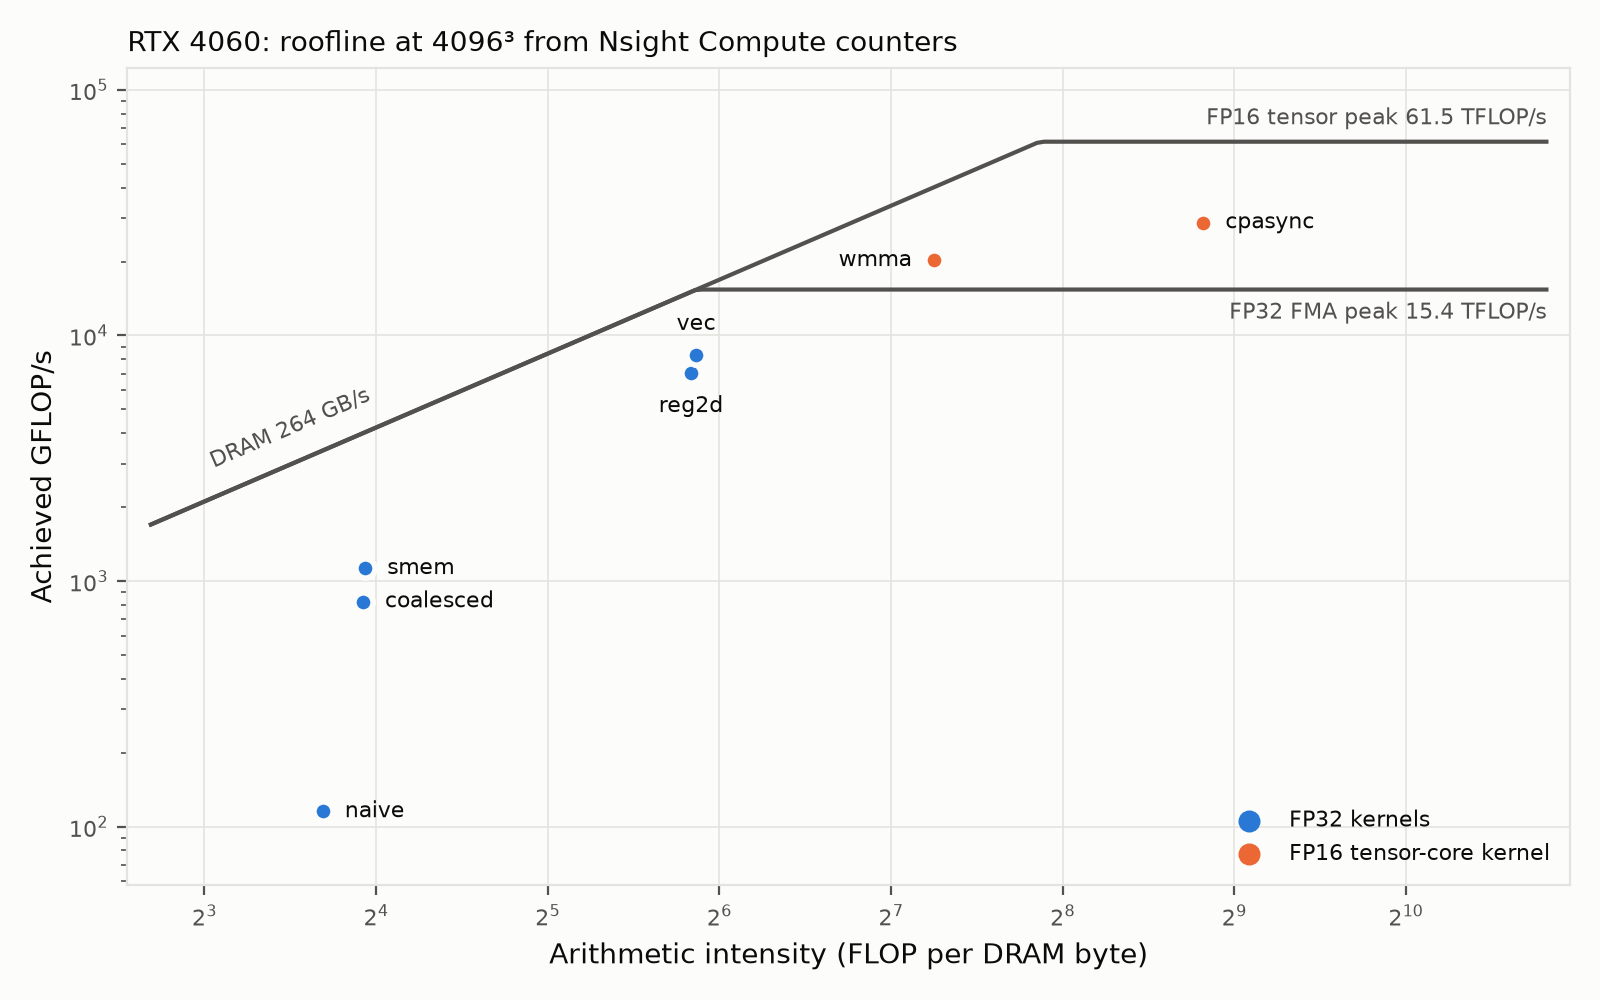
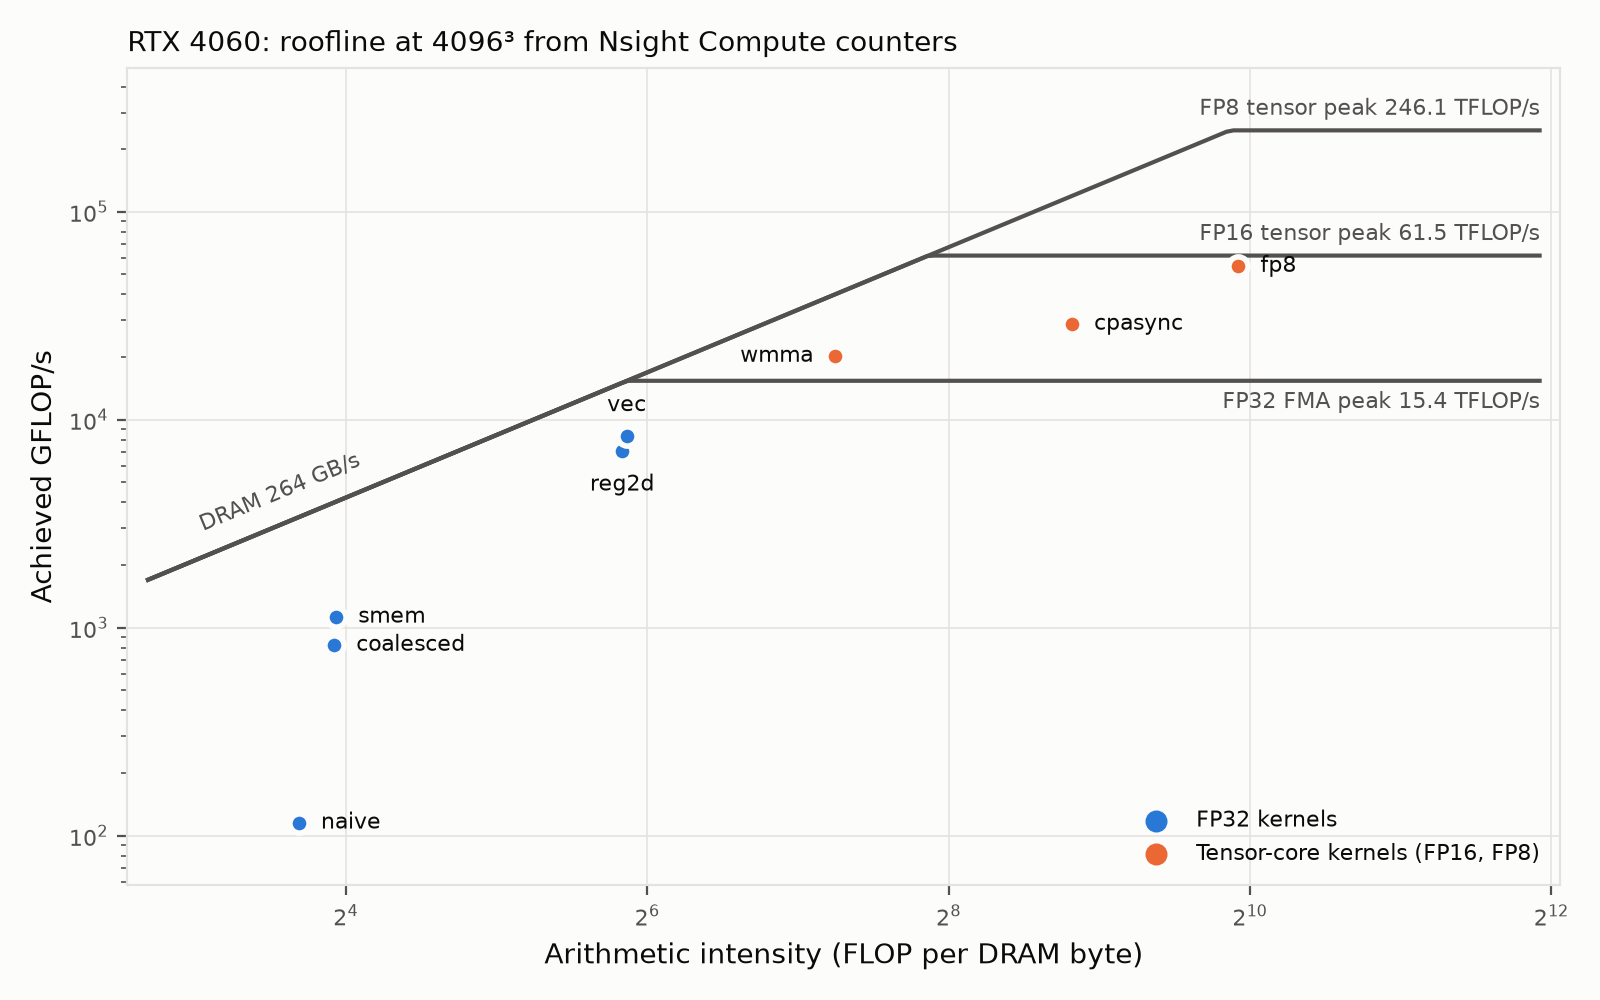
Record FP8 step: results, profile, notes and journal

diff --git a/scripts/roofline.py b/scripts/roofline.py
@@ -21,17 +21,23 @@ from plotstyle import THEMES
 
 FP32 = "sm__sass_thread_inst_executed_op_ffma_pred_on.sum"
 TENSOR = "sm__ops_path_tensor_src_fp16_dst_fp32.sum"
+FP8 = "sm__ops_path_tensor_src_fp8.sum"  # profiles before step 8 lack it: 0
 
 
 def load(path):
-    """Kernel rows of the ncu raw CSV pages, numbers parsed."""
+    """Kernel rows of the ncu raw CSV pages, numbers parsed. Each page has its
+    own header, since the metric list grew over the steps."""
     with open(path) as f:
         lines = [l for l in f if l.startswith('"')]  # drop bench's own stdout
-    rows = []
-    for r in csv.DictReader(lines):
-        if r["ID"] in ("ID", ""):  # repeated header or units row
+    rows, header = [], None
+    for values in csv.reader(lines):
+        if values[0] == "ID":
+            header = values
             continue
-        rec = {"name": r["Kernel Name"].split("_kernel")[0]}
+        r = dict(zip(header, values))
+        if r["ID"] == "":  # units row
+            continue
+        rec = {"name": r["Kernel Name"].split("_kernel")[0], FP8: 0.0}
         for k, v in r.items():
             try:
                 rec[k] = float(v.replace(",", ""))
@@ -56,15 +62,17 @@ def main(src, dst, gpu, theme="light"):
     sm_hz = r0["sm__cycles_elapsed.avg.per_second"]
     peak_fp32 = 2 * r0[FP32 + ".peak_sustained"] * sm_hz
     peak_tensor = r0[TENSOR + ".peak_sustained"] * sm_hz
+    peak_fp8 = max(r.get(FP8 + ".peak_sustained", 0) for r in rows) * sm_hz
     peak_bw = (
         r0["dram__bytes.sum.peak_sustained"] * r0["dram__cycles_elapsed.avg.per_second"]
     )
     print(
         f"peak_fp32_gflops,{peak_fp32 / 1e9:.0f}\npeak_tensor_gflops,{peak_tensor / 1e9:.0f}"
+        f"\npeak_fp8_gflops,{peak_fp8 / 1e9:.0f}"
         f"\npeak_dram_gbs,{peak_bw / 1e9:.0f}\nkernel,flop_per_byte,gflops"
     )
     for r in rows:
-        r["flops"] = 2 * r[FP32] + r[TENSOR]
+        r["flops"] = 2 * r[FP32] + r[TENSOR] + r[FP8]
         r["bytes"] = r["dram__bytes_read.sum"] + r["dram__bytes_write.sum"]
         r["ai"] = r["flops"] / r["bytes"]
         r["perf"] = r["flops"] / (r["gpu__time_duration.sum"] * 1e-9)
@@ -79,14 +87,18 @@ def main(src, dst, gpu, theme="light"):
     lo = min(r["ai"] for r in rows) / 2
     hi = max(r["ai"] for r in rows) * 4
     ax.set_xlim(lo / 1.1, hi * 1.1)
-    ax.set_ylim(min(r["perf"] for r in rows) / 1e9 / 2, peak_tensor / 1e9 * 2)
+    top = max(peak_tensor, peak_fp8)
+    ax.set_ylim(min(r["perf"] for r in rows) / 1e9 / 2, top / 1e9 * 2)
     xs = [lo * (hi / lo) ** (i / 200) for i in range(201)]
     # Tensor ceiling label above its line, FP32 label below its own, both at
     # the right edge where no kernel sits.
     for peak, label, va, nudge in [
         (peak_fp32, "FP32 FMA peak", "top", 1 / 1.12),
         (peak_tensor, "FP16 tensor peak", "bottom", 1.12),
+        (peak_fp8, "FP8 tensor peak", "bottom", 1.12),
     ]:
+        if peak == 0:
+            continue
         ax.plot(
             xs, [min(peak, peak_bw * x) / 1e9 for x in xs], color=c["muted"], lw=1.5
         )
@@ -104,7 +116,7 @@ def main(src, dst, gpu, theme="light"):
             r["ai"],
             r["perf"] / 1e9,
             s=48,
-            color=c["tc"] if r[TENSOR] > 0 else c["fp32"],
+            color=c["tc"] if r[TENSOR] + r[FP8] > 0 else c["fp32"],
             edgecolor=c["surface"],
             linewidth=2,
             zorder=3,
@@ -121,7 +133,7 @@ def main(src, dst, gpu, theme="light"):
             color=c["ink"],
         )
     ax.scatter([], [], s=48, color=c["fp32"], label="FP32 kernels")
-    ax.scatter([], [], s=48, color=c["tc"], label="FP16 tensor-core kernel")
+    ax.scatter([], [], s=48, color=c["tc"], label="Tensor-core kernels (FP16, FP8)")
     leg = ax.legend(frameon=False, fontsize=8, loc="lower right")
     for t in leg.get_texts():
         t.set_color(c["ink"])

diff --git a/scripts/journal_fp8.py b/scripts/journal_fp8.py
@@ -1,0 +1,88 @@
+# /// script
+# requires-python = ">=3.11"
+# dependencies = ["matplotlib"]
+# ///
+"""Key figure of the FP8 journal entry: where the FP8 kernel adds its tensor-core
+partial sums into FP32 ("promotion"), against error and throughput.
+
+Usage: uv run scripts/journal_fp8.py <out.png> [light|dark]
+Reads docs/results/fp8-promotion.csv.
+"""
+
+import csv
+import statistics
+import sys
+
+import matplotlib
+
+matplotlib.use("Agg")
+import matplotlib.pyplot as plt
+from plotstyle import THEMES
+
+VARIANTS = [  # (csv key, label)
+    ("none", "never (one long\ntensor-core chain)"),
+    ("64", "every 64-deep K tile\n(committed)"),
+    ("32", "after every MMA"),
+]
+
+
+def main(dst, theme="light"):
+    with open("docs/results/fp8-promotion.csv") as f:
+        rows = list(csv.DictReader(ln for ln in f if not ln.startswith("#")))
+    sizes = sorted({int(r["n"]) for r in rows})
+
+    def med(key, n, col):
+        return statistics.median(
+            float(r[col]) for r in rows if r["promotion"] == key and int(r["n"]) == n
+        )
+
+    c = THEMES[theme]
+    shades = [c["muted"], c["tc"], c["fp32"]]
+    fig, axes = plt.subplots(1, 2, figsize=(8, 3.4), dpi=200)
+    fig.patch.set_facecolor(c["surface"])
+    ax = axes[0]
+    for (key, label), color in zip(VARIANTS, shades):
+        ax.plot(sizes, [med(key, n, "exact_err") for n in sizes], "o-", color=color,
+                label=label.replace("\n", " "), lw=1.8, ms=4)
+    ax.plot(sizes, [med("64", n, "cublaslt_exact_err") for n in sizes], "s--",
+            color=c["ink"], label="cuBLASLt FP8", lw=1.2, ms=3.5)
+    ax.set_xscale("log", base=2)
+    ax.set_yscale("log")
+    ax.set_xticks(sizes, [str(n) for n in sizes])
+    ax.set_xlabel("n = K", color=c["ink"], fontsize=8)
+    ax.set_title("Max error vs exact FP64 dot products", fontsize=9, color=c["ink"],
+                 loc="left")
+    leg = ax.legend(frameon=False, fontsize=7)
+    for t in leg.get_texts():
+        t.set_color(c["ink"])
+
+    ax = axes[1]
+    labels = [label for _, label in VARIANTS] + ["cuBLASLt FP8"]
+    vals = [med(key, 4096, "gflops") / 1e3 for key, _ in VARIANTS]
+    vals.append(med("64", 4096, "cublaslt_gflops") / 1e3)  # same runs as "64"
+    bars = ax.barh(labels[::-1], vals[::-1], color=(shades + [c["ink"]])[::-1],
+                   height=0.6)
+    for b, v in zip(bars, vals[::-1]):
+        ax.text(b.get_width(), b.get_y() + b.get_height() / 2, f" {v:.1f}",
+                va="center", fontsize=8, color=c["ink"])
+    ax.set_xlim(0, max(vals) * 1.25)
+    ax.set_xticks([])
+    ax.set_title("TFLOP/s at 4096³ (median of three)", fontsize=9, color=c["ink"],
+                 loc="left")
+    for a in axes:
+        a.set_facecolor(c["surface"])
+        a.tick_params(colors=c["muted"], labelsize=7.5)
+        for s in a.spines.values():
+            s.set_color(c["grid"])
+    for s in axes[1].spines.values():
+        s.set_visible(False)
+    fig.suptitle(
+        "RTX 4060, FP8 (E4M3) GEMM: where partial sums leave the tensor core",
+        fontsize=10, color=c["ink"], x=0.01, ha="left",
+    )
+    fig.tight_layout()
+    fig.savefig(dst, facecolor=c["surface"])
+
+
+if __name__ == "__main__":
+    main(*sys.argv[1:])

diff --git a/scripts/counters.py b/scripts/counters.py
@@ -18,7 +18,7 @@ import matplotlib
 matplotlib.use("Agg")
 import matplotlib.pyplot as plt
 from plotstyle import THEMES
-from roofline import TENSOR, load
+from roofline import FP8, TENSOR, load
 
 REQ = "l1tex__t_requests_pipe_lsu_mem_global_op_ld.sum"
 SECT = "l1tex__t_sectors_pipe_lsu_mem_global_op_ld.sum"
@@ -138,7 +138,7 @@ def main(src, dst, theme="light", json_out=None):
     for ax, (_, title, unit, _, value) in zip(axes.flat, PANELS):
         vals = [value(r) for r in rows]
         ax.set_facecolor(c["surface"])
-        colors = [c["tc"] if r[TENSOR] > 0 else c["fp32"] for r in rows]
+        colors = [c["tc"] if r[TENSOR] + r[FP8] > 0 else c["fp32"] for r in rows]
         ax.barh(range(len(rows)), vals, height=0.62, color=colors)
         top = max(vals) or 1
         ax.set_xlim(0, top * 1.45)

diff --git a/README.md b/README.md
@@ -11,18 +11,19 @@ Matrix multiply in CUDA, built step by step from a naive kernel to tensor cores,
 | 5 | [`vec`](docs/steps/5-vec.md) | 128-bit loads, transposed A tile | 7,053 | 88.1 |
 | 6 | [`wmma`](docs/steps/6-wmma.md) | Tensor cores (FP16 in, FP32 accumulate) | 20,731 | 65.3 |
 | 7 | [`cpasync`](docs/steps/7-cpasync.md) | `cp.async` double buffering, grouped block order | 28,823 | 95.3 |
+| 8 | [`fp8`](docs/steps/8-fp8.md) | FP8 (E4M3) `mma.sync`, FP32 promotion per K tile | 57,778 | 93.3 |
 
-Measured on an RTX 4060 (sm_89, CUDA 13.3), median of three runs ([raw](docs/results/rtx4060.csv)). `wmma` and `cpasync` are compared with FP16-input cuBLAS.
+Measured on an RTX 4060 (sm_89, CUDA 13.3), median of three runs ([raw](docs/results/rtx4060.csv)). `wmma` and `cpasync` are compared with FP16-input cuBLAS, `fp8` with cuBLASLt FP8.
 
 ![Roofline of every kernel on the RTX 4060](docs/roofline.png)
 
 ## Why it matters
 
-GEMM dominates deep-learning training and inference. Each step removes one bottleneck (uncoalesced loads, global traffic, shared-memory bandwidth, instruction issue, FP32 math) and explains the gain from SASS and Nsight Compute counters:
+Each step removes one bottleneck and explains the gain from SASS and Nsight Compute counters:
 
 ![Nsight Compute counters per kernel](docs/img/counters.png)
 
-Tiles per step, to scale; the global loads they imply match the counters exactly for steps 1–5:
+Tiles per step, to scale; their implied global loads match the counters for steps 1–5:
 
 ![Block, warp and thread tiles per step](docs/img/tiling.png)
 
@@ -41,15 +42,17 @@ make bench ARCH=sm_89 KERNEL=vec  # on a GPU: time, GFLOPS, % cuBLAS, error as C
 | `src/gemm.cuh` | Launcher signatures shared by every kernel |
 | `src/<step>.cu` | One kernel per step |
 | `src/bench.cu` | Harness: timing, cuBLAS reference, error check |
+| `src/quant.cu`, `src/numerics.cu` | Quantizers; per-format error and cost (`bench numerics`) |
+| `check/` | Tensor-core adder probe; quantizer cross-check against chip-lab |
 | `scripts/` | Roofline, counter and tiling plots from the result CSVs |
 | `docs/steps/`, `docs/journal/` | One note per step; dated process notes |
 | `docs/results/` | Raw benchmark and Nsight Compute CSVs |
 
 ## Results and verification
 
-- Every run checks `max_rel_err` against cuBLAS and fails above 1e-4 (FP32) or 1e-3 (FP16 inputs).
-- Each step note in [docs/steps/](docs/steps/) gives what changed, why it is faster and what limits it next.
-- Benchmarking, profiling and plots: [docs/running.md](docs/running.md).
+- Every run checks `max_rel_err` and fails above 1e-4 (FP32) or 1e-3 (FP16, FP8; FP8 against exact dot products).
+- On chip-lab's test distributions, GPU FP8 and BF16 error match its bit-exact C++ models ([step 8](docs/steps/8-fp8.md)).
+- Running, profiling and plots: [docs/running.md](docs/running.md).
 
 ## Limitations
 
@@ -58,9 +61,8 @@ make bench ARCH=sm_89 KERNEL=vec  # on a GPU: time, GFLOPS, % cuBLAS, error as C
 
 ## Related projects
 
-- [openroad-chip-lab](https://github.com/NicholasUnruh/openroad-chip-lab): a BF16 matrix tile from RTL to SKY130 layout: GEMM in custom silicon.
+- [openroad-chip-lab](https://github.com/NicholasUnruh/openroad-chip-lab): GEMM tiles and number formats in custom silicon.
 - [bf16-fpga](https://github.com/NicholasUnruh/bf16-fpga): that tile running on an FPGA.
-- [rv32i-pipeline](https://github.com/NicholasUnruh/rv32i-pipeline), [cache-sim](https://github.com/NicholasUnruh/cache-sim): CPU pipeline and memory hierarchy.
 - Portfolio: https://genwealth.world
 
 ## License

diff --git a/docs/journal/2026-11-12-fp8.md b/docs/journal/2026-11-12-fp8.md
@@ -1,0 +1,59 @@
+# FP8 on Ada tensor cores, and how they add
+
+## Question
+
+Ada's tensor cores take E4M3 inputs. How close does a hand-written `mma.sync` kernel get to cuBLASLt FP8, and is its error the error of the format or of the hardware?
+
+![Error grows with K when partial sums stay in the tensor core; promoting every 64-deep K tile keeps it flat at full speed](img/fp8.png)
+
+What to notice: the never-promoted kernel's error grows about 6x from K = 256 to 4096, while promoting every 64-deep tile stays flat at no throughput cost.
+
+## Concept
+
+An FP8 MMA multiplies 8-bit inputs exactly and adds the products into an FP32 accumulator. "FP32 accumulator" says nothing about how the adder rounds. Like chip-lab's dot-product units, the tensor core aligns all addends to the largest one inside a fixed-width frame and drops what falls outside it.
+
+A probe of one `mma.sync.m16n8k32` with hand-built operands measures that frame:
+
+```
+c = 2^13, + 1*1   ->  8193      (kept)
+c = 2^14, + 1*1   ->  16384     (lost: about 13 bits below the leading bit)
+c = -2^12, + 0.75 ->  -4095.5   (truncated toward -inf, not rounded)
+c = 2^14, + 32 x 1*1 -> 16384   (each addend truncated before the sum)
+```
+
+Inside one long K loop the running sum sits in that accumulator, so once it is large the later small products vanish. The usual remedy is **promotion**: sum a short stretch of K in a fresh accumulator and add the result in FP32 registers.
+
+## What I tried
+
+1. **No promotion**, the step-7 structure with FP8 MMAs: 53.9 TFLOP/s. It failed the 1e-3 check against cuBLASLt at 4096, with error growing with K.
+2. **Exact reference.** The check now compares against FP64 dot products of the same E4M3 codes. Against that reference cuBLASLt itself is off by 1.0–1.4e-4.
+3. **Promotion after every MMA (k = 32):** error 4–6e-5, but 47.6 TFLOP/s, because the extra FADDs compete with the MMAs.
+4. **Promotion every 64-deep K tile:** error 6–9e-5 and 55.7 TFLOP/s. This is the committed kernel.
+5. **chip-lab's accuracy experiment** on the GPU (`bench numerics`): the same 2,000 vector pairs, scored the same way.
+
+## Output
+
+```
+                                 TFLOP/s (4096)   max err vs exact (4096)
+no promotion                      53.9            2.4e-3
+promote every 64-deep K tile      55.7            6.1e-5 .. 9.4e-5
+promote every MMA                 47.6            3.8e-5 .. 5.6e-5
+cuBLASLt FP8                      60.6            9.6e-5 .. 1.4e-4
+
+chip-lab vectors, K = 4096, median / p99    GPU               chip-lab C++ model
+E4M3 per tensor, Gaussian                   6.22e-4 / 2.32e-3  6.2e-4 / 2.3e-3
+BF16, Gaussian                              3.62e-5 / 1.40e-4  3.6e-5 / 1.4e-4
+```
+
+## Result
+
+57,778 GFLOPS at 4096³, 93.3% of cuBLASLt FP8 (median of three), and 2.0x the FP16 kernel of step 7.
+
+- The accuracy loss was the hardware adder, not the format. Promotion every 64-deep tile removes it at no measured cost.
+- With promotion, GPU error on chip-lab's distributions matches the bit-exact C++ model to two digits. At K = 4096 the error is input rounding.
+- Quantizing both 4096 x 4096 operands costs 1.25 ms against 2.41 ms of GEMM. Standalone quantization is memory-bound and would need fusing.
+- The tensor pipe is 45% busy, as in step 7; cuBLASLt also stops near 61–63 TFLOP/s.
+
+## Next
+
+MX block scaling (step 9): one power-of-two scale per 32 elements. A k32 MMA covers exactly one block, so each partial sum must be scaled in FP32. That is promotion after every MMA, which costs 15% here even without the multiply.

diff --git a/docs/steps/8-fp8.md b/docs/steps/8-fp8.md
@@ -1,0 +1,45 @@
+# Step 8: FP8 (E4M3) tensor cores
+
+Source: [src/fp8.cu](../../src/fp8.cu). RTX 4060, 4096³: 57,778 GFLOPS, 93.3% of cuBLASLt FP8 on the same E4M3 codes, and 2.0× step 7's FP16 kernel.
+
+## What changed
+
+Step 7's pipeline stays. WMMA has no FP8 fragments, so the math is `mma.sync.m16n8k32` E4M3 PTX (`QMMA.16832.F32.E4M3.E4M3` in SASS). `ldmatrix.x4` delivers 8-bit fragments directly but cannot transpose them, so B is stored K-major (N x K), the TN layout cuBLASLt FP8 also requires. Inputs are quantized per tensor (`x * 448 / amax`) by `src/quant.cu`. The quantizers match the chip-lab C++ models byte for byte on 27 million elements ([cross-check](../results/quant-crosscheck.csv)).
+
+## The tensor core truncates its sum
+
+The first version's error grew with K. `check/mma_probe.cu` feeds one MMA hand-built operands ([output](../results/mma-probe-rtx4060.csv)):
+
+- The sum keeps 13 bits below the largest addend's leading bit: 2¹³ + 1 = 8193, but 2¹⁴ + 1 = 16384.
+- Dropped bits are truncated toward −∞: −4096 + 0.75 gives −4095.5.
+- Each addend is truncated on its own: 2¹⁴ plus 32 products of 1 gives 2¹⁴, not 2¹⁴ + 32.
+
+A long accumulator chain therefore drops small terms once the sum grows. The fix is **promotion**: each 64-deep K tile is summed in a fresh accumulator and then added in FP32 registers ([ablation](../results/fp8-promotion.csv)):
+
+| Promotion | TFLOP/s | Max error, n = 4096 |
+|---|---:|---:|
+| Never | 53.9 | 2.4e-3, grows with K |
+| Every 64-deep K tile | 55.7 | 6–9e-5, flat in K |
+| After every MMA | 47.6 | 4–6e-5 |
+| cuBLASLt FP8 | 60.6 | 1.0–1.4e-4 |
+
+Error is against exact FP64 dot products of the same codes. Promoting every tile costs nothing measurable. Promoting after every MMA doubles the FADDs and costs 15%.
+
+## Accuracy on the chip-lab distributions
+
+`bench numerics` reruns chip-lab's GEMM-error experiment on the same 2,000 vector pairs ([results](../results/numerics-rtx4060.csv)). Median / p99 of |y − y₆₄| / Σ|aᵢbᵢ| at K = 4096:
+
+| Format | Gaussian | Outliers | chip-lab model, Gaussian |
+|---|---:|---:|---:|
+| BF16 (cuBLAS) | 3.6e-5 / 1.4e-4 | 1.9e-4 / 7.9e-4 | 3.6e-5 / 1.4e-4 |
+| E4M3 per tensor (this kernel) | 6.2e-4 / 2.3e-3 | 3.0e-3 / 1.1e-2 | 6.2e-4 / 2.3e-3 |
+
+The GPU matches the bit-exact C++ model to two digits: at this K, input rounding dominates the error.
+
+## Cost of quantizing
+
+At 4096, quantizing both operands takes 1.25 ms against 2.41 ms for the GEMM, or 52%. The pass is memory-bound: it reads the FP32 inputs twice (amax, then convert). Training would fuse it into the producing kernel.
+
+## What limits it now
+
+The tensor pipe is 45% busy and math-pipe throttle is the top stall (11.3), the same pattern as step 7. 128 registers and 40,960 bytes of shared memory still allow two blocks per SM. cuBLASLt also stops at 61–63 TFLOP/s with FP32 accumulation, a quarter of the counters' 246 TFLOP/s FP8 peak. Profile at 4096³: 970 FLOP per DRAM byte ([roofline](../roofline.png), [counters](../results/ncu-rtx4060.csv)). Process notes: [journal](../journal/2026-11-12-fp8.md).
